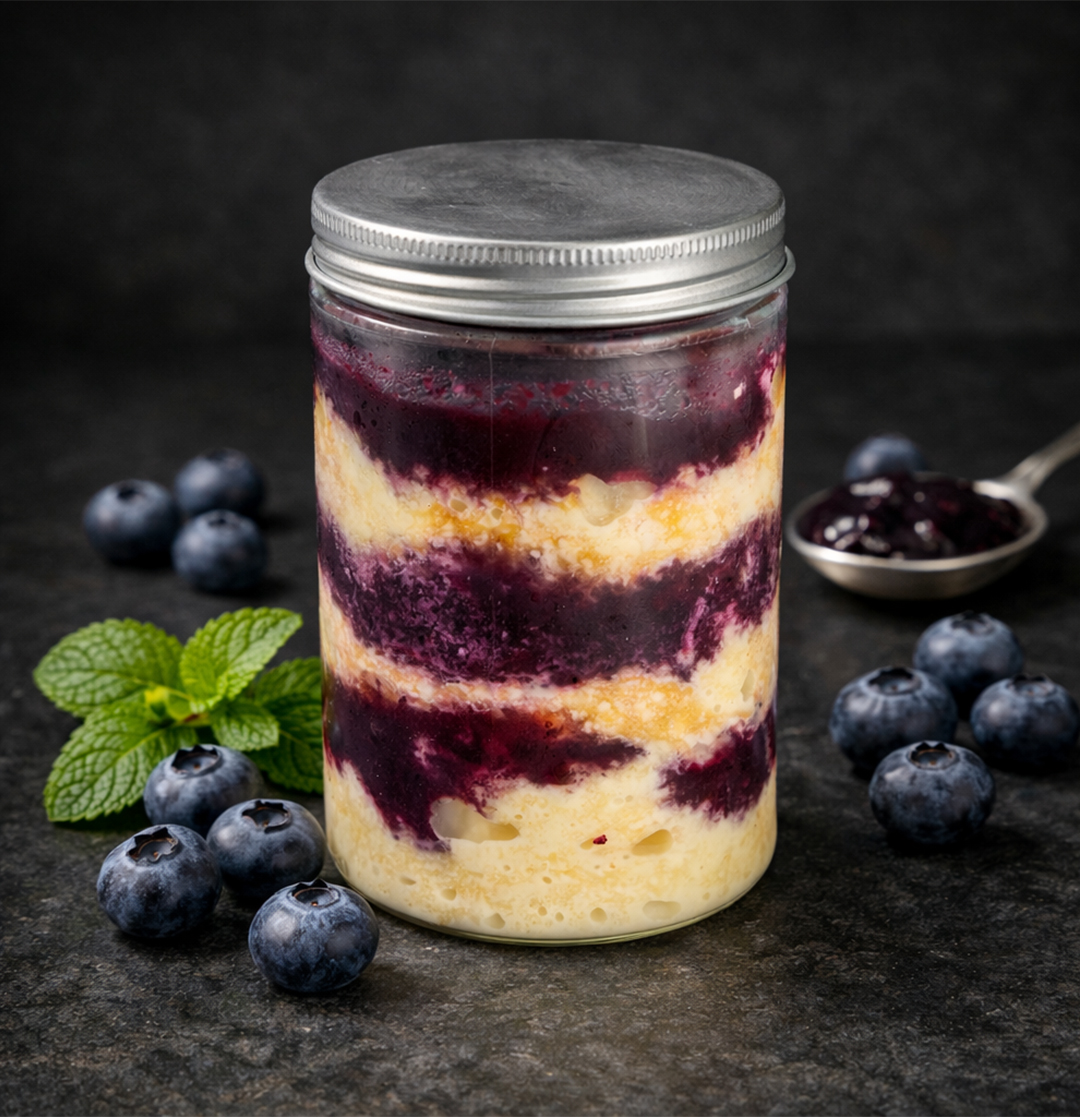
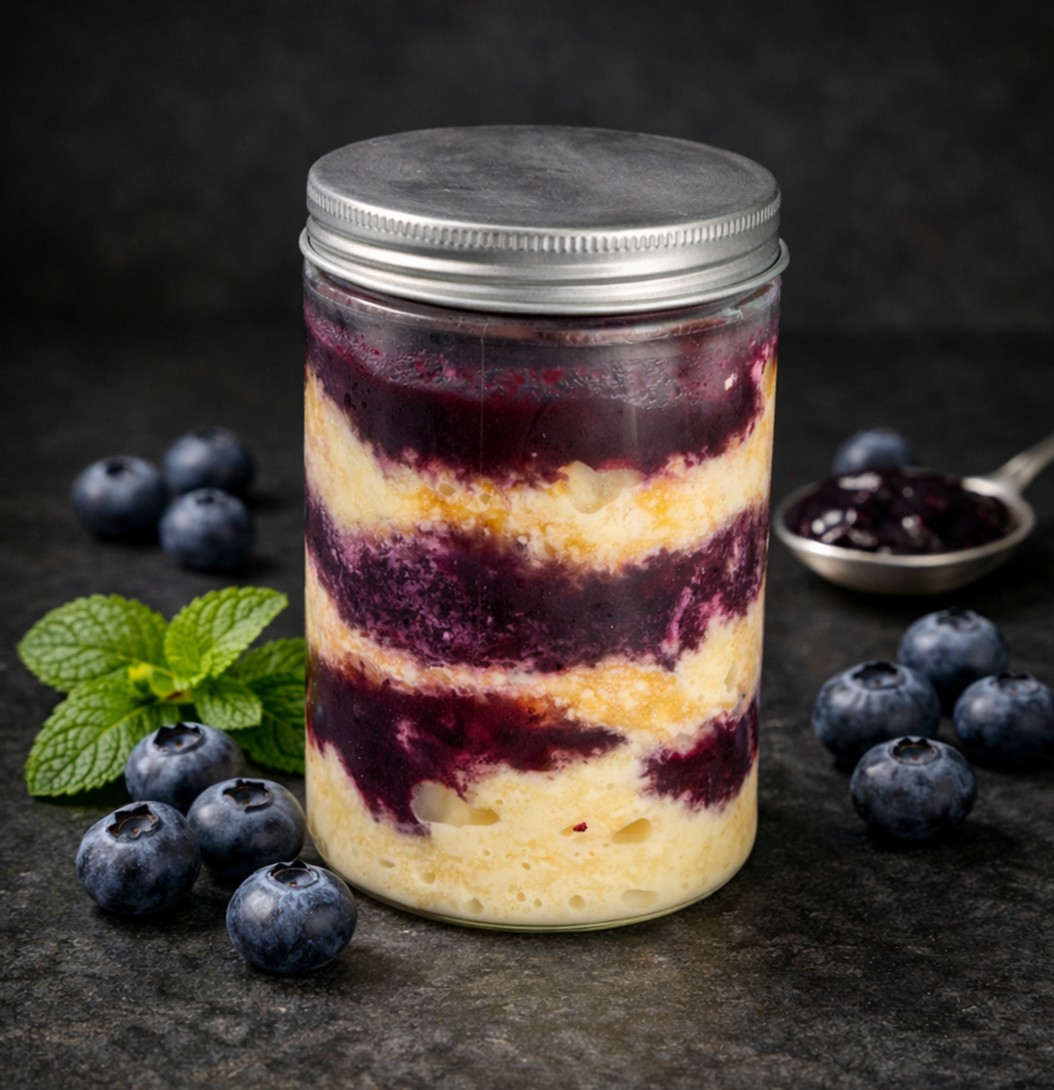
cambios en el menu y previsualizacion al compartir la pagina

Changed region(s): [[0.0, 0.0936, 1.0, 1.0], [0.0, 0.9982, 0.0607, 1.0], [0.8501, 0.8422, 0.8805, 0.8734]]

diff --git a/index.html b/index.html
@@ -4,6 +4,21 @@
 <meta charset="UTF-8">
 <meta name="viewport" content="width=device-width, initial-scale=1.0">
 <title>Kremó — Menú</title>
+
+<!-- Preview al compartir el link -->
+<meta property="og:type" content="website">
+<meta property="og:site_name" content="Kremó">
+<meta property="og:title" content="Kremó — ¿Qué hay de postre?">
+<meta property="og:description" content="Dark kitchen de postres en San Pedro Sula. Mirá el menú y pedí por delivery o pickup.">
+<meta property="og:image" content="https://eliaswalton.github.io/kremomenu/og-preview.jpg">
+<meta property="og:image:width" content="1200">
+<meta property="og:image:height" content="630">
+<meta property="og:url" content="https://eliaswalton.github.io/kremomenu/">
+<meta name="twitter:card" content="summary_large_image">
+<meta name="twitter:title" content="Kremó — ¿Qué hay de postre?">
+<meta name="twitter:description" content="Dark kitchen de postres en San Pedro Sula. Mirá el menú y pedí por delivery o pickup.">
+<meta name="twitter:image" content="https://eliaswalton.github.io/kremomenu/og-preview.jpg">
+
 <link rel="preconnect" href="https://fonts.googleapis.com">
 <link href="https://fonts.googleapis.com/css2?family=Bodoni+Moda:ital,opsz,wght@0,6..96,400;0,6..96,500;0,6..96,600;1,6..96,500&family=Work+Sans:wght@300;400;500;600&family=Oswald:wght@400;500&display=swap" rel="stylesheet">
 <style>
@@ -819,6 +834,11 @@ const photos = {
   tiramisu: "img/tiramisu.jpg",
   brioche_molde: "img/brioche_molde.jpeg",
   pumpkinpie: "img/pumpkinpie.jpg",
+  PumpkinSpiceCake: "img/PumpkinSpiceCake.jpg",
+  treslechesblueberry: "img/treslechesblueberry.jpg",
+  treslechesfresa: "img/treslechesfresa.jpg",
+  cuatroleches: "img/cuatroleches.jpg",
+
 };
 
 const data = [
@@ -828,7 +848,8 @@ const data = [
     desc: "Postres que solo están disponibles por temporadas especiales.",
     items: [
       { name: "Pumpkin Swirl Cheesecake", desc: "Con calabaza especiada en remolino, dulce y aromático, con un final cálido y acogedor.", familiar: 1350, mediano: 680, temporada: true, photo: "pumpkin" },
-      { name: "Pumpink Pie", desc: "Sweet, spicy and a little bit cozy.", familiar: 1270, mediano: 670, temporada: true, photo: "pumpkinpie" },      
+      { name: "Pumpkin Spice Cake (Tres Leches)", desc: "Bizcocho de pumpkin extra húmedo, especiado y reconfortante, con pumpkin butter y un suave glaze de cream cheese. Dulce, cremoso y perfecto para comer a cucharadas.", familiar: 1910, mediano: 1010, temporada: true, photo: "PumpkinSpiceCake" },
+      { name: "Pumpink Pie", desc: "Sweet, spicy and a little bit cozy.", familiar: 1400, mediano: 735, temporada: true, photo: "pumpkinpie" },      
       { name: "Apple Pie Cheesecake", desc: "Con manzanas caramelizadas integradas en la torta, crema y una delicada capa de caramelo salado.", familiar: 1270, mediano: 670, temporada: true, photo: "apple_pie" },
       { name: "Pecan Pie", desc: "Crust crujiente y dorado, relleno acaramelado con el sabor profundo de pecanas tostadas en cada bocado.", familiar: 1450, mediano: 760, temporada: true, photo: "pecan" },
       { name: "Cheesecake de Mango", familiar: 1450, mediano: 750, agotado: true/*, photo: "cheesecake_mango" */},
@@ -864,11 +885,11 @@ const data = [
     desc: "Postres servidos en capas, cremosos y llenos de sabor — pensados para disfrutarse cucharada a cucharada.",
     portionNote: "Mediano rinde 9–12 porciones · Grande rinde 18–20 porciones",
     items: [
-      { name: "Tres leches de arándanos", familiar: 1220, mediano: 660 },
-      { name: "Tres leches de fresa", familiar: 1150, mediano: 650 },
+      { name: "Tres leches de arándanos", familiar: 1220, mediano: 660, photo: "treslechesblueberry" },
+      { name: "Tres leches de fresa", familiar: 1150, mediano: 650, photo: "treslechesfresa" },
       { name: "Tres leches clásico", familiar: 1100, mediano: 600 },
       { name: "Pastel de Zanahoria Tres Leches", desc: "Bizcocho de zanahoria especiado, bañado en mezcla tres leches y cubierto con crema suave estilo cream cheese.", familiar: 1850, mediano: 950, photo: "zanahoria_tresleches" },
-      { name: "Cuatro leches", familiar: 1400, mediano: 800 },
+      { name: "Cuatro leches", familiar: 1400, mediano: 800, photo: "cuatroleches" },
         ]
   },
   {
